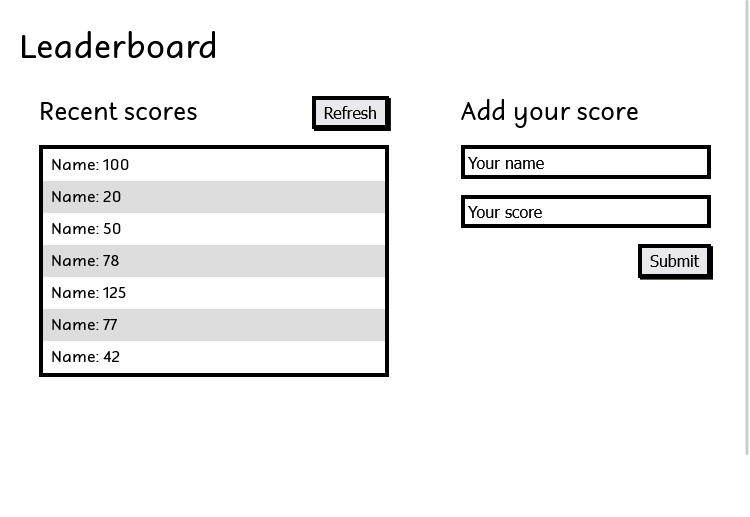
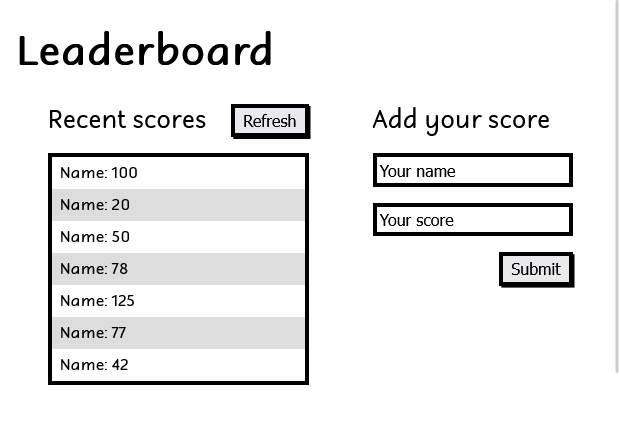
Update demo image

diff --git a/src/scss/styles.scss b/src/scss/styles.scss
@@ -5,7 +5,8 @@
 /* main section styles
 ------------------------------------ */
 .main__page-title {
-  font-size: 2rem;
+  font-size: 2.5rem;
+  font-weight: 700;
   margin-block-end: 2rem;
 }
 
@@ -13,11 +14,13 @@
   display: flex;
   flex-direction: column;
   gap: 2rem;
+  padding-inline: 2rem;
 
   @media only screen and (min-width: 600px) {
     flex-direction: row;
-    justify-content: space-around;
+    justify-content: flex-start;
     align-items: flex-start;
+    gap: 4rem;
 
     & > * {
       flex: 1;
@@ -68,7 +71,10 @@
 .add__score {
   display: flex;
   flex-direction: column;
-  max-width: 250px;
+  max-width: 350px;
+  @media only screen and (min-width: 600px) {
+    max-width: 200px;
+  }
 
   &-header {
     height: 33.4px;
